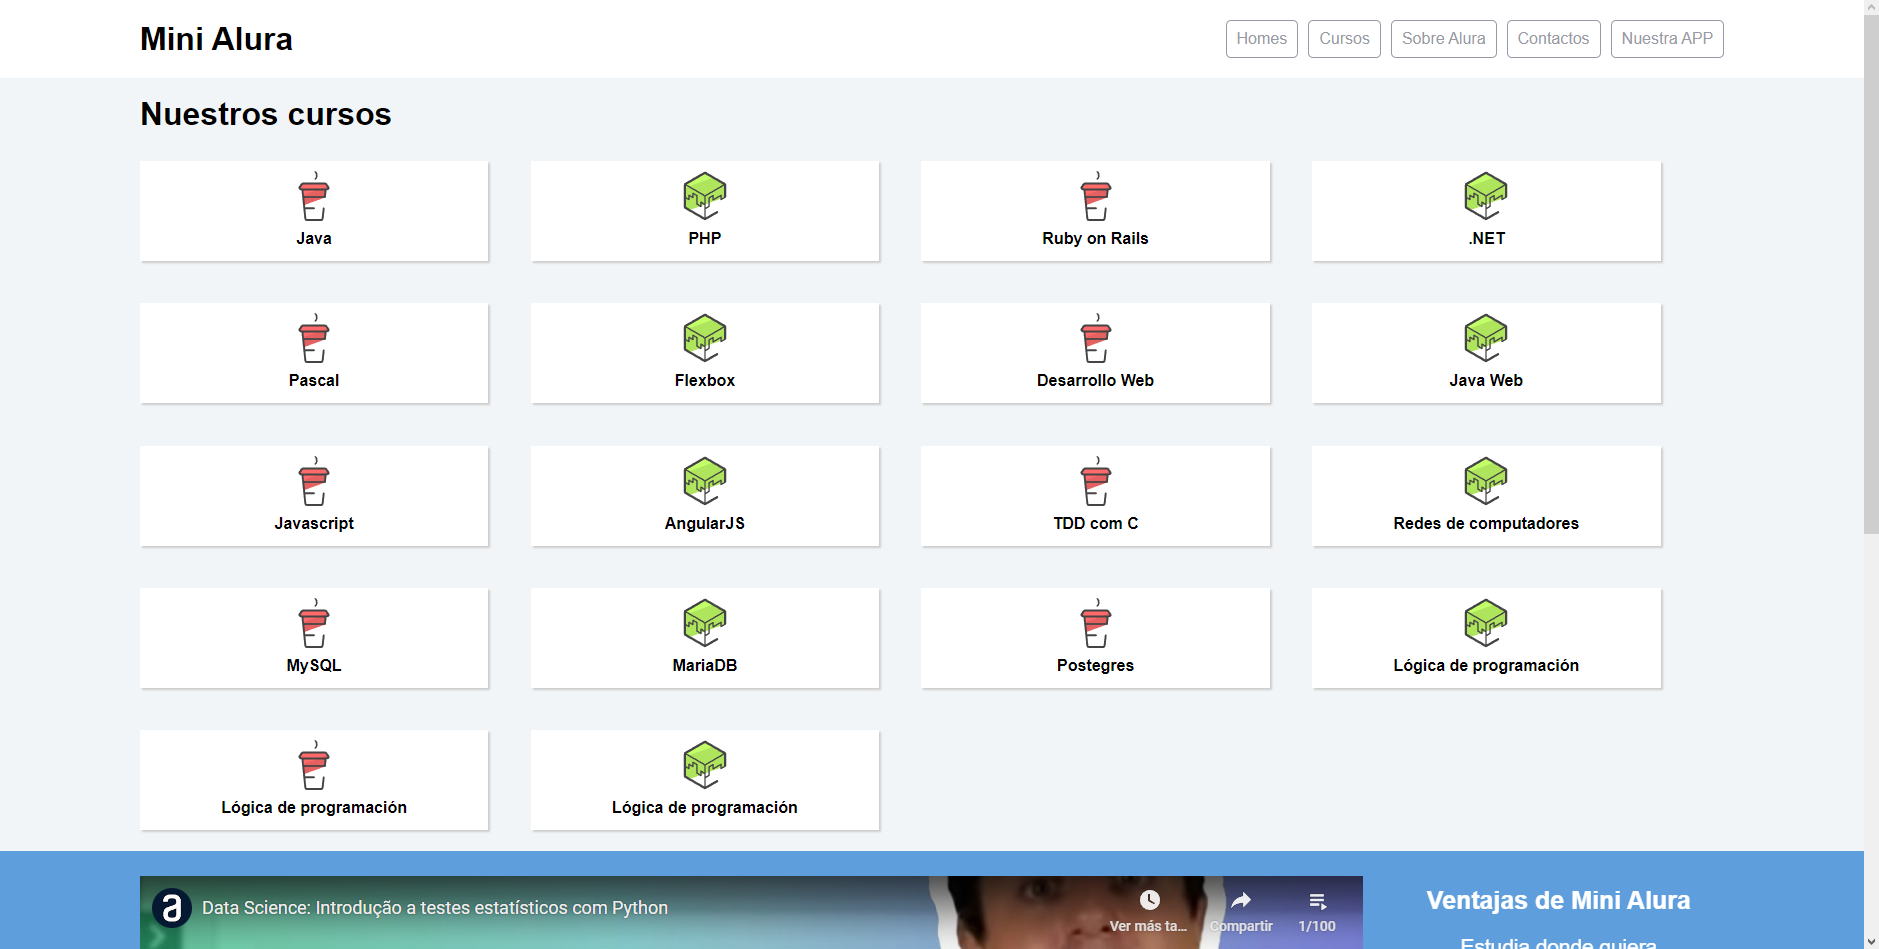
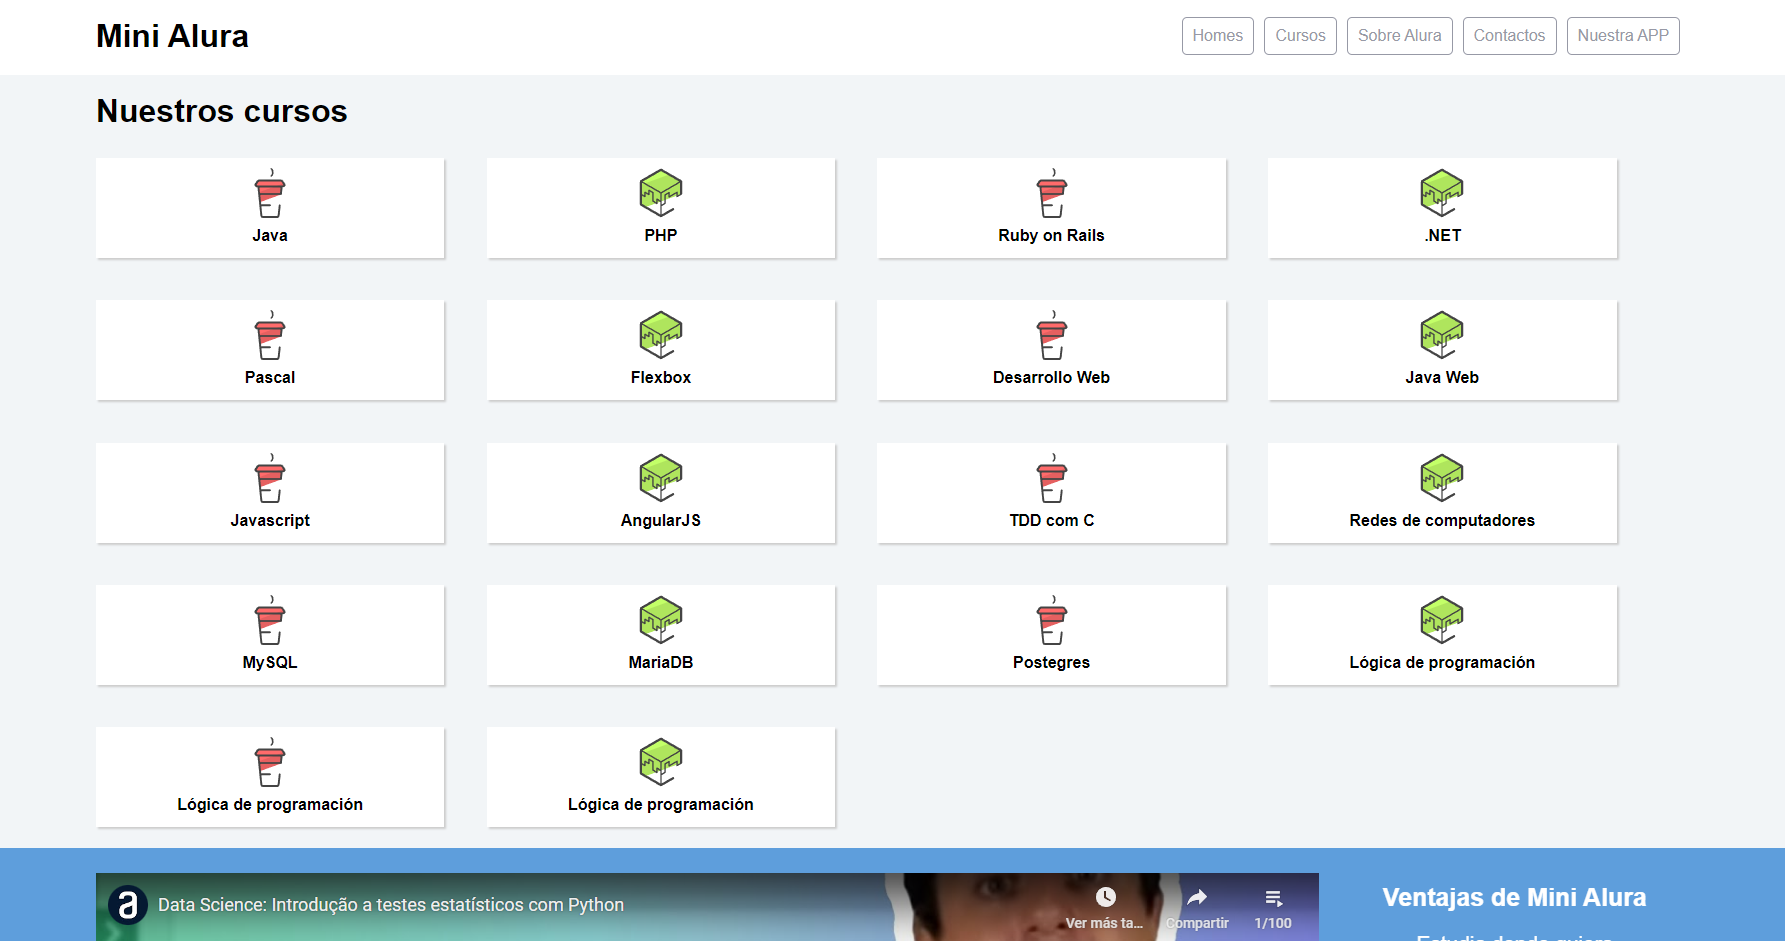
subiendo

diff --git a/index.html b/index.html
@@ -104,11 +104,11 @@
             <div class="cardBlanca">
                 <img class="img" src="img/mysql.png">
                 <label>MySql</label>
-            </div> 
+            </div>
             <div class="cardBlanca">
                 <img class="img" src="img/trello.png">
                 <label>Trello</label>
-            </div> 
+            </div>
             <div class="cardBlanca">
                 <img class="img" src="img/figma.png">
                 <label>Figma</label>
@@ -143,7 +143,7 @@
             <div class="cardBlanca">
                 <img class="img" src="img/redes.png">
                 <label>Chatear</label>
-            </div> 
+            </div>
         </section>
         <section class="sectionFormacionAcademica">
             <h2 class="tituloFormacion">Formacion Academica</h2>
@@ -181,53 +181,118 @@
         <section class="sectionExperiencia">
             <div class="cardProyecto">
                 <div class="divCaptura">
-                    <img class="imgCaptura" src="img/encriptador.png"/>
+                    <img class="imgCaptura" src="img/encriptador.png" />
                 </div>
                 <div class="divBotones">
                     <h2 class="tituloBotones">Encriptador de Texto</h2>
                     <label class="textoBotones">Challenge Alura Codificador</label>
                     <div class="divbtn">
-                        <button class="btn btnBlanco">Repositorio</button>
-                        <button class="btn btnAzul">Ver Demo</button>
+                        <button class="btn btnBlanco" id="btnEncriptador">Repositorio</button>
+                        <button class="btn btnAzul" id="btnEncriptadorDemo">Ver Demo</button>
                     </div>
                 </div>
             </div>
             <div class="cardProyecto">
                 <div class="divCaptura">
-                    <img class="imgCaptura" src="img/ahorcado.png"/>
+                    <img class="imgCaptura" src="img/ahorcado.png" />
                 </div>
                 <div class="divBotones">
-                    <h2 class="tituloBotones">Encriptador de Texto</h2>
-                    <label class="textoBotones">Challenge Alura Codificador</label>
+                    <h2 class="tituloBotones">Juego del Ahorcado</h2>
+                    <label class="textoBotones">Challenge Alura Ahorcado</label>
                     <div class="divbtn">
-                        <button class="btn btnBlanco">Repositorio</button>
-                        <button class="btn btnAzul">Ver Demo</button>
+                        <button class="btn btnBlanco" id="btnAhorcado">Repositorio</button>
+                        <button class="btn btnAzul" id="btnAhorcadoDemo">Ver Demo</button>
                     </div>
                 </div>
             </div>
             <div class="cardProyecto">
                 <div class="divCaptura">
-                    <img class="imgCaptura" src="img/encriptador.png"/>
+                    <img class="imgCaptura" src="img/Portafolio.png" />
                 </div>
                 <div class="divBotones">
-                    <h2 class="tituloBotones">Encriptador de Texto</h2>
-                    <label class="textoBotones">Challenge Alura Codificador</label>
+                    <h2 class="tituloBotones">Portafolio</h2>
+                    <label class="textoBotones">Challenge Alura Portafolio</label>
                     <div class="divbtn">
-                        <button class="btn btnBlanco">Repositorio</button>
-                        <button class="btn btnAzul">Ver Demo</button>
+                        <button class="btn btnBlanco" id="btnPortafolio">Repositorio</button>
+                        <button class="btn btnAzul" id="btnPortafolioDemo">Ver Demo</button>
                     </div>
                 </div>
             </div>
             <div class="cardProyecto">
                 <div class="divCaptura">
-                    <img class="imgCaptura" src="img/encriptador.png"/>
+                    <img class="imgCaptura" src="img/cygnus.png" />
                 </div>
                 <div class="divBotones">
-                    <h2 class="tituloBotones">Encriptador de Texto</h2>
-                    <label class="textoBotones">Challenge Alura Codificador</label>
+                    <h2 class="tituloBotones">Proyecto Cygnus Generation</h2>
+                    <label class="textoBotones">Ecommerce Ropa</label>
                     <div class="divbtn">
-                        <button class="btn btnBlanco">Repositorio</button>
-                        <button class="btn btnAzul">Ver Demo</button>
+                        <button class="btn btnBlanco" id="btnCygnus">Repositorio</button>
+                        <button class="btn btnAzul" id="btnCygnusDemo">Ver Demo</button>
+                    </div>
+                </div>
+            </div>
+            <div class="cardProyecto">
+                <div class="divCaptura">
+                    <img class="imgCaptura" src="img/besins.png" />
+                </div>
+                <div class="divBotones">
+                    <h2 class="tituloBotones">Proyecto Besins</h2>
+                    <label class="textoBotones">Ecommerce Medicamentos</label>
+                    <div class="divbtn">
+                        <button class="btn btnBlanco" id="btnBesins">Repositorio</button>
+                        <button class="btn btnAzul" id="btnBesinsDemo">Ver Demo</button>
+                    </div>
+                </div>
+            </div>
+            <div class="cardProyecto">
+                <div class="divCaptura">
+                    <img class="imgCaptura" src="img/FlexBox.png" />
+                </div>
+                <div class="divBotones">
+                    <h2 class="tituloBotones">FlexBox</h2>
+                    <label class="textoBotones">Flexbox: Posicione elementos en la pantalla</label>
+                    <div class="divbtn">
+                        <button class="btn btnBlanco" id="btnFlexBox">Repositorio</button>
+                        <button class="btn btnAzul" id="btnFlexBoxDemo">Ver Demo</button>
+                    </div>
+                </div>
+            </div>
+            <div class="cardProyecto">
+                <div class="divCaptura">
+                    <img class="imgCaptura" src="img/CssGrid.png" />
+                </div>
+                <div class="divBotones">
+                    <h2 class="tituloBotones">Css Grid</h2>
+                    <label class="textoBotones">Simplificando layouts</label>
+                    <div class="divbtn">
+                        <button class="btn btnBlanco" id="btnGrid">Repositorio</button>
+                        <button class="btn btnAzul" id="btnGridDemo">Ver Demo</button>
+                    </div>
+                </div>
+            </div>
+            <div class="cardProyecto">
+                <div class="divCaptura">
+                    <img class="imgCaptura" src="img/Arquitectura.png" />
+                </div>
+                <div class="divBotones">
+                    <h2 class="tituloBotones">Arquitectura Css</h2>
+                    <label class="textoBotones">Descomplicando los problemas</label>
+                    <div class="divbtn">
+                        <button class="btn btnBlanco" id="btnArquitectura">Repositorio</button>
+                        <button class="btn btnAzul" id="btnArquitecturaDemo">Ver Demo</button>
+                    </div>
+                </div>
+            </div>
+            <div class="cardProyecto">
+                <div class="divCaptura">
+                    <img class="imgCaptura" src="img/Layouts.png" />
+                </div>
+                <div class="divBotones">
+                    <h2 class="tituloBotones">Layouts Responsivos</h2>
+                    <label class="textoBotones">Trabajando con layouts mobile</label>
+                    <div class="divbtn">
+                        <button class="btn btnBlanco" id="btnLayouts">Repositorio</button>
+                        <button class="btn btnAzul" id="btnLayoutsDemo">Ver Demo</button>
                     </div>
                 </div>
             </div>
@@ -236,6 +301,7 @@
     <footer></footer>
 
     <script src="https://kit.fontawesome.com/acf9a5f092.js" crossorigin="anonymous"></script>
+    <script src="js/link_botones.js"></script>
 </body>
 
 </html>

diff --git a/js/link_botones.js b/js/link_botones.js
@@ -1,0 +1,57 @@
+const btnRepositorio = document.querySelectorAll(".btnBlanco");
+const btnDemo = document.querySelectorAll(".btnAzul");
+
+const repositorios = (e) =>{
+    const boton = e.target.id;
+    if(boton == 'btnEncriptador')
+    window.location.href = "https://github.com/EduardoJuseppe/One_Encriptador";
+    else if(boton == 'btnAhorcado')
+    window.location.href = "https://github.com/EduardoJuseppe/ONE_Ahorcado";
+    else if(boton == 'btnPortafolio')
+    window.location.href = "https://github.com/EduardoJuseppe/Portafolio";
+    else if(boton == 'btnCygnus')
+    window.location.href = "https://github.com/UlisesRomanMartinezBello/proyecto_cygnus";
+    else if(boton == 'btnBesins')
+    window.location.href = "https://github.com/EduardoJuseppe/Besings";
+    else if(boton == 'btnFlexBox')
+    window.location.href = "https://github.com/EduardoJuseppe/FlexBox";
+    else if(boton == 'btnGrid')
+    window.location.href = "https://github.com/EduardoJuseppe/GridCss";
+    else if(boton == 'btnArquitectura')
+    window.location.href = "https://github.com/EduardoJuseppe/ArquitecturaCss";
+    else if(boton == 'btnLayouts')
+    window.location.href = "https://github.com/EduardoJuseppe/Layouts";
+}
+
+const demos = (e) =>{
+    const boton = e.target.id;
+    if(boton == 'btnEncriptadorDemo')
+    window.location.href = "https://eduardojuseppe.github.io/One_Encriptador/";
+    else if(boton == 'btnAhorcadoDemo')
+    window.location.href = "https://eduardojuseppe.github.io/ONE_Ahorcado/";
+    else if(boton == 'btnPortafolioDemo')
+    window.location.href = "https://eduardojuseppe.github.io/Portafolio/";
+    else if(boton == 'btnCygnusDemo')
+    window.location.href = "https://ulisesromanmartinezbello.github.io/proyecto_cygnus/index.html";
+    else if(boton == 'btnBesinsDemo')
+    window.location.href = "https://eduardojuseppe.github.io/Besings/";
+    else if(boton == 'btnFlexBoxDemo')
+    window.location.href = "https://eduardojuseppe.github.io/FlexBox/";
+    else if(boton == 'btnGridDemo')
+    window.location.href = "https://eduardojuseppe.github.io/GridCss/";
+    else if(boton == 'btnArquitecturaDemo')
+    window.location.href = "https://eduardojuseppe.github.io/ArquitecturaCss/";
+    else if(boton == 'btnLayoutsDemo')
+    window.location.href = "https://eduardojuseppe.github.io/Layouts/";
+}
+
+btnRepositorio.forEach(boton => {
+    boton.addEventListener("click",repositorios);
+});
+
+btnDemo.forEach(boton => {
+    boton.addEventListener("click",demos);
+});
+
+
+

diff --git a/css/main__sectionExperiencia.css b/css/main__sectionExperiencia.css
@@ -11,6 +11,7 @@
     margin: 0 auto;
     margin-top: 1.5rem;
     gap: 3rem;
+    padding-bottom: 2rem;
 }
 .cardProyecto{
     display: flex;

diff --git a/css/header.css b/css/header.css
@@ -1,3 +1,6 @@
+header{
+    padding: 1rem 0;
+}
 nav{
     display: flex;
     width: 85%;
